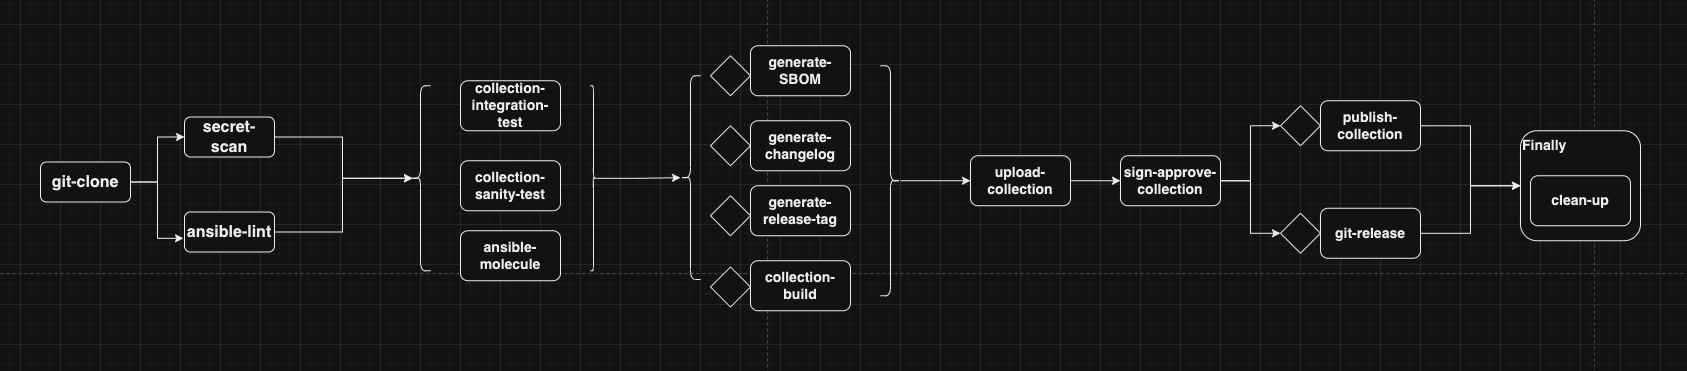
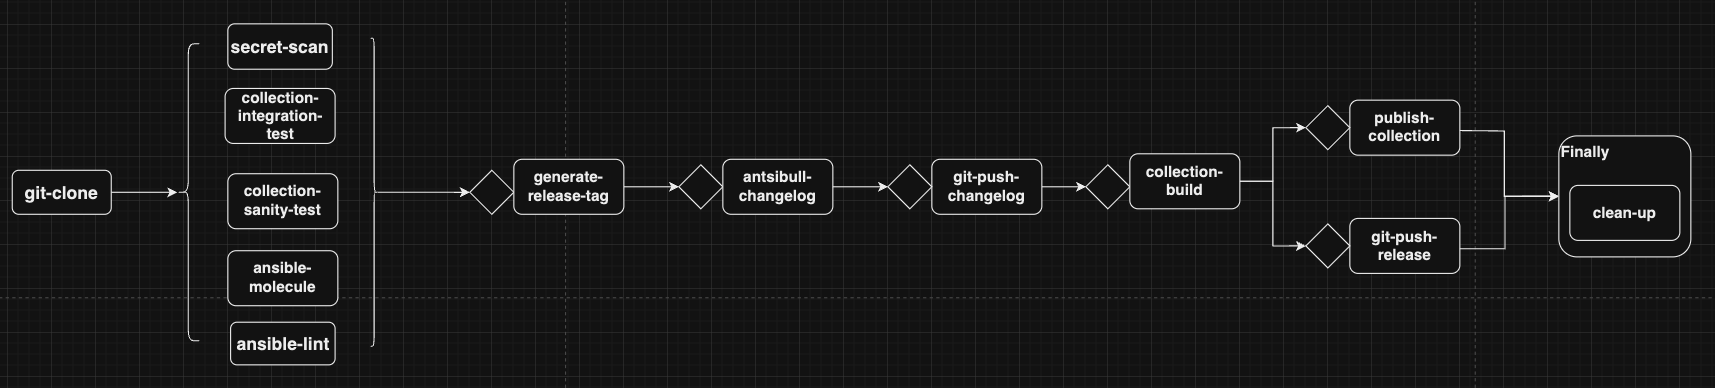
test: add ansible-test and antsibull-changelog tasks

diff --git a/release.config.js b/release.config.js
@@ -16,13 +16,6 @@ module.exports = {
         },
       },
     ],
-    "@semantic-release/release-notes-generator",
-    [
-      "@semantic-release/changelog",
-      {
-        changelogFile: "CHANGELOG.md",
-      },
-    ],
     [
       "@semantic-release/exec",
       {
